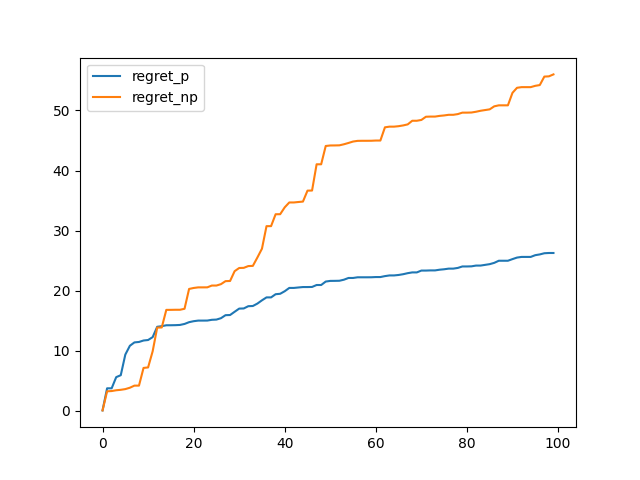
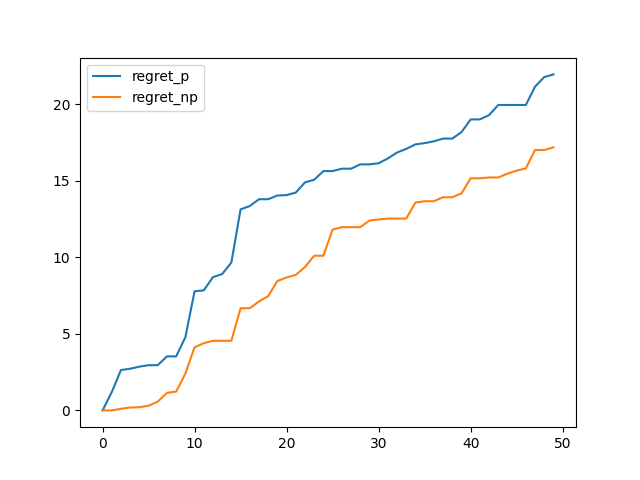
experiment[C

diff --git a/Experiment.py b/Experiment.py
@@ -13,15 +13,13 @@ import json
 D = 5
 K = 6
 #item set
-N = [i+1 for i in range(100)]
+N = [i+1 for i in range(50)]
 #cardinality constraint
-B = 10
+B = 5
 
 r =np.random.uniform(0,10,size = len(N))
 r.sort()
 print(r)
-
-#hi zhudan
 
 #2d-array
 Theta_g_p=(2*np.random.normal(0,1,size=(D,K))-np.random.uniform(0,1,size=(D,K)))/np.sqrt(D*K)
@@ -128,7 +126,7 @@ def PAO_TS_exp(T,r):
     return reward_np,reward_p,reward_ora
 
 
-T = 200
+T = 100
 reward_np,reward_p,reward_ora = PAO_TS_exp(T,r)
 
 res = {"reward_np":reward_np,"reward_p":reward_p,"reward_ora":reward_ora}
